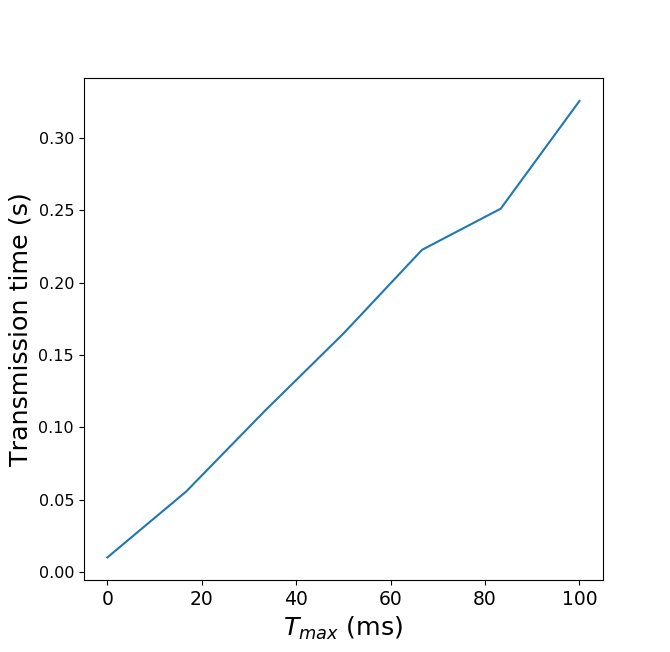
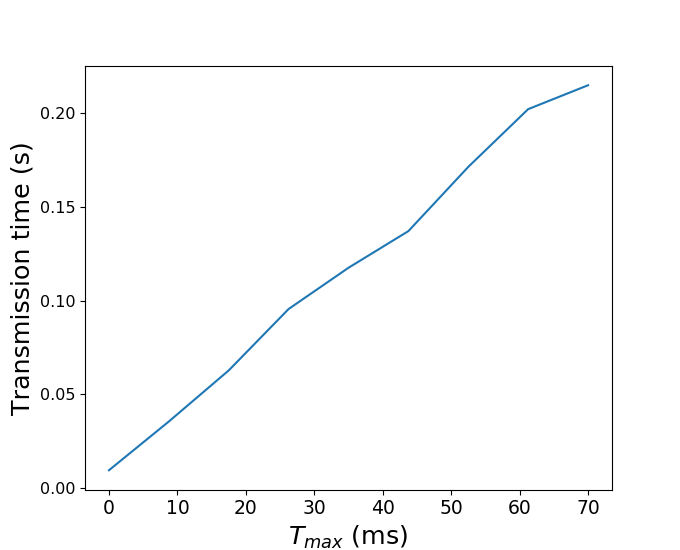
cols from 7 to 9

diff --git a/grafici/invited/Tmax-comparison.py b/grafici/invited/Tmax-comparison.py
@@ -8,8 +8,15 @@ sys.path.append("src")
 from sim_config import config
 from simulator import performSimulations
 
+if config.city_name == "NewYork":
+    tmax_vals = np.linspace(0, 0.07, 9)
+elif config.city_name == "Luxembourg":
+    tmax_vals = np.linspace(0, 0.07, 9)
+elif config.city_name == "Cologne":
+    tmax_vals = np.linspace(0, 0.07, 9)
+else:
+    raise Exception(f"city {config.city_name} NA")
 
-tmax_vals = np.linspace(0, 0.2, 9)
 t_last_infctd_vals = np.zeros_like(tmax_vals)
 ratios_infected_vals = np.zeros_like(tmax_vals)
 sent_msgs_vals = np.zeros_like(tmax_vals)
